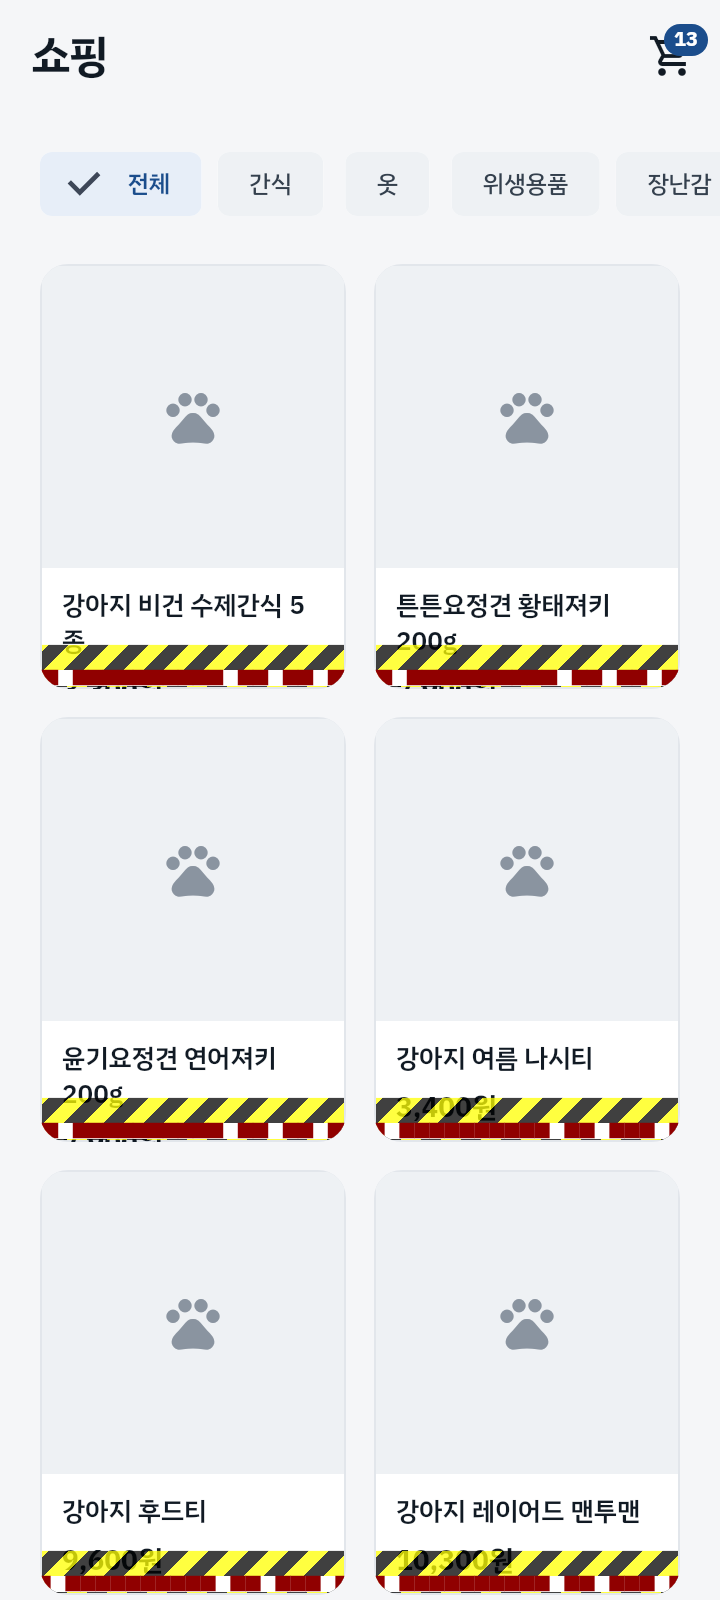
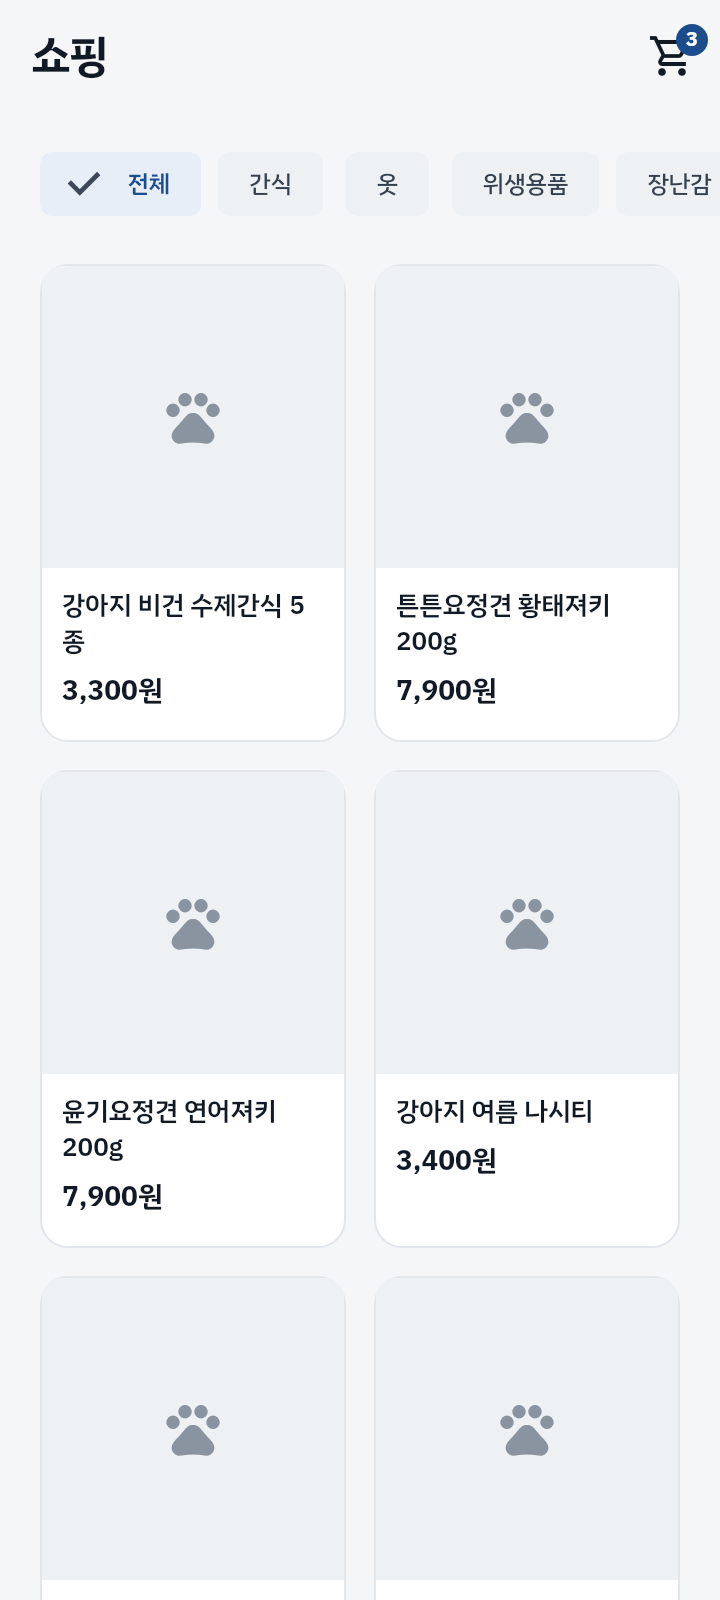
쇼핑 화면 보정: 카드 높이, 칩 글꼴, 장바구니 배지
- 스토어 홈 카드: childAspectRatio 대신 mainAxisExtent = 카드 폭(정사각
  이미지) + 글자 영역. 글자 영역은 상품명 2줄(maxLines 2·ellipsis) + 가격
  1줄(+ 할인 전 가격 줄이 있을 때만) + 여백을 실제 글꼴·글자 크기 설정으로
  TextPainter로 재서 정한다. "우리 아이에게 맞는" 가로 목록 높이도 같은 값.
  360·411·600 폭 넘침 없음 테스트(shop_home_layout_test) 추가.
- app_theme chipTheme.labelStyle/secondaryLabelStyle에 IBM Plex Sans KR 지정
  (기기에서 칩만 시스템 글꼴로 보이던 문제). 스크린샷 테스트의 칩 글꼴
  덧씌우기 코드 제거.
- 장바구니 배지: 수량 합계 → 장바구니 줄 수(상품·옵션 조합 수).
- 스크린샷 다시 찍음(01·02 홈 카드 넘침 사라짐, 배지 13 → 3).

Claude-Session: https://claude.ai/code/session_01FQNcVMWacnPUqqWDpuGHpn

diff --git a/lib/shop/screens/shop_home_screen.dart b/lib/shop/screens/shop_home_screen.dart
@@ -86,17 +86,29 @@ class ShopHomeScreen extends ConsumerWidget {
                         child: Text('아직 등록된 상품이 없어요', style: TextStyle(color: AppColors.textSecondary)),
                       ),
                     )
-                  : GridView.builder(
-                      shrinkWrap: true,
-                      physics: const NeverScrollableScrollPhysics(),
-                      itemCount: page.products.length,
-                      gridDelegate: const SliverGridDelegateWithFixedCrossAxisCount(
-                        crossAxisCount: 2,
-                        mainAxisSpacing: 14,
-                        crossAxisSpacing: 14,
-                        childAspectRatio: 0.72,
-                      ),
-                      itemBuilder: (context, index) => _ProductCard(product: page.products[index]),
+                  : LayoutBuilder(
+                      builder: (context, constraints) {
+                        // 카드 높이 = 카드 폭(정사각 이미지) + 글자 영역 — 비율로
+                        // 정하면 좁은 폭에서 글자 영역이 모자라 넘친다.
+                        const spacing = 14.0;
+                        final cardWidth = (constraints.maxWidth - spacing) / 2;
+                        return GridView.builder(
+                          shrinkWrap: true,
+                          physics: const NeverScrollableScrollPhysics(),
+                          itemCount: page.products.length,
+                          gridDelegate: SliverGridDelegateWithFixedCrossAxisCount(
+                            crossAxisCount: 2,
+                            mainAxisSpacing: spacing,
+                            crossAxisSpacing: spacing,
+                            mainAxisExtent: cardWidth +
+                                _ProductCard.textAreaHeight(
+                                  context,
+                                  withStrikePrice: page.products.any((p) => p.isOnSale),
+                                ),
+                          ),
+                          itemBuilder: (context, index) => _ProductCard(product: page.products[index]),
+                        );
+                      },
                     ),
             ),
           ),
@@ -153,7 +165,7 @@ class _RecommendedSection extends StatelessWidget {
           child: Text('우리 아이에게 맞는', style: TextStyle(fontSize: 15, fontWeight: FontWeight.w800)),
         ),
         SizedBox(
-          height: 210,
+          height: 150 + _ProductCard.textAreaHeight(context, withStrikePrice: products.any((p) => p.isOnSale)),
           child: ListView.separated(
             scrollDirection: Axis.horizontal,
             padding: const EdgeInsets.symmetric(horizontal: AppSpacing.page),
@@ -171,6 +183,41 @@ class _ProductCard extends StatelessWidget {
   final Product product;
 
   const _ProductCard({required this.product});
+
+  static const _textPadding = 10.0;
+  static const _nameGap = 6.0;
+  static const _strikeGap = 2.0;
+  static const _nameStyle = TextStyle(fontSize: 13, fontWeight: FontWeight.w600, color: AppColors.textPrimary);
+  static const _priceStyle = TextStyle(fontSize: 14, fontWeight: FontWeight.w800, color: AppColors.textPrimary);
+  static const _strikeStyle =
+      TextStyle(fontSize: 11.5, color: AppColors.textPlaceholder, decoration: TextDecoration.lineThrough);
+
+  /// 이미지 아래 글자 영역 높이 — 상품명 2줄 + 가격 1줄(+ 할인 전 가격 줄) +
+  /// 여백을 실제 글꼴·글자 크기 설정으로 재서 정한다(카드 높이를 이 값으로
+  /// 고정하므로 어떤 폭·글꼴에서도 넘치지 않는다).
+  static double textAreaHeight(BuildContext context, {bool withStrikePrice = false}) {
+    final base = DefaultTextStyle.of(context).style;
+    final scaler = MediaQuery.textScalerOf(context);
+    final direction = Directionality.of(context);
+    double lines(TextStyle style, int count) {
+      final painter = TextPainter(
+        text: TextSpan(text: List.filled(count, '가g').join('\n'), style: base.merge(style)),
+        textDirection: direction,
+        textScaler: scaler,
+      )..layout();
+      final height = painter.height;
+      painter.dispose();
+      return height;
+    }
+
+    return _textPadding * 2 +
+        lines(_nameStyle, 2) +
+        _nameGap +
+        (withStrikePrice ? lines(_strikeStyle, 1) + _strikeGap : 0) +
+        lines(_priceStyle, 1) +
+        // 테두리(위·아래 1px)와 반올림 여유.
+        4;
+  }
 
   @override
   Widget build(BuildContext context) {
@@ -210,7 +257,7 @@ class _ProductCard extends StatelessWidget {
               ),
             ),
             Padding(
-              padding: const EdgeInsets.all(10),
+              padding: const EdgeInsets.all(_textPadding),
               child: Column(
                 crossAxisAlignment: CrossAxisAlignment.start,
                 children: [
@@ -218,19 +265,19 @@ class _ProductCard extends StatelessWidget {
                     product.name,
                     maxLines: 2,
                     overflow: TextOverflow.ellipsis,
-                    style: const TextStyle(fontSize: 13, fontWeight: FontWeight.w600, color: AppColors.textPrimary),
+                    style: _nameStyle,
                   ),
-                  const SizedBox(height: 6),
+                  const SizedBox(height: _nameGap),
                   if (product.isOnSale) ...[
                     Text(
                       '${NumberFormat('#,###').format(product.price)}원',
-                      style: const TextStyle(fontSize: 11.5, color: AppColors.textPlaceholder, decoration: TextDecoration.lineThrough),
+                      style: _strikeStyle,
                     ),
-                    const SizedBox(height: 2),
+                    const SizedBox(height: _strikeGap),
                   ],
                   Text(
                     '${NumberFormat('#,###').format(product.displayPrice)}원',
-                    style: const TextStyle(fontSize: 14, fontWeight: FontWeight.w800, color: AppColors.textPrimary),
+                    style: _priceStyle,
                   ),
                 ],
               ),

diff --git a/test/shop/shop_home_layout_test.dart b/test/shop/shop_home_layout_test.dart
@@ -1,0 +1,122 @@
+import 'dart:io';
+
+import 'package:firebase_auth/firebase_auth.dart';
+import 'package:flutter/material.dart';
+import 'package:flutter/services.dart';
+import 'package:flutter_riverpod/flutter_riverpod.dart';
+import 'package:flutter_test/flutter_test.dart';
+
+import 'package:petcliniccheck/models/pet.dart';
+import 'package:petcliniccheck/providers/auth_provider.dart';
+import 'package:petcliniccheck/providers/effective_pets_provider.dart';
+import 'package:petcliniccheck/shop/data/shop_repository.dart';
+import 'package:petcliniccheck/shop/models/cart_item.dart';
+import 'package:petcliniccheck/shop/models/product.dart';
+import 'package:petcliniccheck/shop/models/seller.dart';
+import 'package:petcliniccheck/shop/providers/shop_providers.dart';
+import 'package:petcliniccheck/shop/screens/shop_home_screen.dart';
+import 'package:petcliniccheck/theme/app_theme.dart';
+
+class _FakeUser implements User {
+  @override
+  String get uid => 'u1';
+
+  @override
+  dynamic noSuchMethod(Invocation invocation) => super.noSuchMethod(invocation);
+}
+
+class _FakeShopRepository implements ShopRepository {
+  final List<Product> products;
+  final List<CartItem> cart;
+
+  _FakeShopRepository({required this.products, this.cart = const []});
+
+  @override
+  Future<ProductPage> fetchProducts({
+    ProductCategory? category,
+    PetTypeTag? petType,
+    LifeStageTag? lifeStage,
+    int limit = 20,
+    Object? cursor,
+  }) async =>
+      ProductPage(products: [for (final p in products) if (category == null || p.category == category) p]);
+
+  @override
+  Future<Seller?> fetchSeller(String sellerId) async => null;
+
+  @override
+  Stream<List<CartItem>> streamCart(String uid) => Stream.value(cart);
+
+  @override
+  dynamic noSuchMethod(Invocation invocation) => throw UnsupportedError('${invocation.memberName}');
+}
+
+Product _product(String id, String name, {int price = 10300}) => Product(
+      id: id,
+      sellerId: 'aggaeng',
+      name: name,
+      category: ProductCategory.apparel,
+      price: price,
+      status: ProductStatus.active,
+      createdAt: DateTime(2026, 11, 1),
+      updatedAt: DateTime(2026, 11, 1),
+    );
+
+/// 스토어 홈 카드 높이는 "카드 폭 + 실제 글꼴로 잰 글자 영역" — 폭이 바뀌어도
+/// 상품명 2줄 + 가격이 넘치지 않아야 한다. 앱과 같은 IBM Plex Sans KR로 잰다.
+void main() {
+  setUpAll(() async {
+    final plex = FontLoader('IBM Plex Sans KR');
+    for (final weight in ['Regular', 'Medium', 'SemiBold', 'Bold']) {
+      plex.addFont(Future.value(ByteData.sublistView(File('assets/fonts/IBMPlexSansKR-$weight.ttf').readAsBytesSync())));
+    }
+    await plex.load();
+    // AdMob 배너는 테스트에 플랫폼 구현이 없다 — 빈 응답(배너 미표시).
+    TestDefaultBinaryMessengerBinding.instance.defaultBinaryMessenger.setMockMessageHandler(
+      'plugins.flutter.io/google_mobile_ads',
+      (message) async => const StandardMethodCodec().encodeSuccessEnvelope(null),
+    );
+  });
+
+  final products = [
+    _product('a', '강아지 비건 수제간식 5종 아주 긴 이름이 두 줄을 넘어가는 경우까지'),
+    _product('b', '튼튼요정견 황태져키 200g'),
+    _product('c', '강아지 후드티'),
+    _product('d', '강아지 레이어드 맨투맨', price: 1234567),
+  ];
+
+  Future<void> pumpAt(WidgetTester tester, double width, {List<CartItem> cart = const []}) async {
+    tester.view.physicalSize = Size(width, 800);
+    tester.view.devicePixelRatio = 1;
+    addTearDown(tester.view.reset);
+    await tester.pumpWidget(ProviderScope(
+      overrides: [
+        shopRepositoryProvider.overrideWithValue(_FakeShopRepository(products: products, cart: cart)),
+        authStateProvider.overrideWith((ref) => Stream<User?>.value(_FakeUser())),
+        effectivePetsProvider.overrideWith((ref) async => const <Pet>[]),
+      ],
+      child: MaterialApp(theme: AppTheme.light(), home: const ShopHomeScreen()),
+    ));
+    await tester.pumpAndSettle();
+  }
+
+  for (final width in [360.0, 411.0, 600.0]) {
+    testWidgets('폭 $width에서 상품 카드가 넘치지 않는다(상품명 2줄 + 가격)', (tester) async {
+      await pumpAt(tester, width);
+      expect(tester.takeException(), isNull);
+      expect(find.text('강아지 레이어드 맨투맨'), findsOneWidget);
+      expect(find.text('1,234,567원'), findsOneWidget);
+    });
+  }
+
+  testWidgets('장바구니 배지는 수량 합계가 아니라 줄 수(상품·옵션 조합 수)', (tester) async {
+    final now = DateTime(2026, 11, 9);
+    await pumpAt(tester, 360, cart: [
+      CartItem(id: 'c1', productId: 'c', optionId: 'o3', quantity: 2, addedAt: now),
+      CartItem(id: 'c2', productId: 'kennel', optionId: 'o1', quantity: 1, addedAt: now),
+      CartItem(id: 'c3', productId: 'bags', quantity: 10, addedAt: now),
+    ]);
+    expect(find.text('3'), findsOneWidget);
+    expect(find.text('13'), findsNothing);
+  });
+}

diff --git a/test/shop/screenshots/shop_screenshots_test.dart b/test/shop/screenshots/shop_screenshots_test.dart
@@ -82,19 +82,6 @@ Future<void> _loadFonts() async {
   await icons.load();
 }
 
-/// 앱 테마 그대로 — 단, 칩 라벨(`chipTheme.labelStyle`)은 글꼴이 지정돼 있지
-/// 않아 기기에선 시스템 한글 글꼴로 대체돼 그려지는데, 테스트에는 대체 글꼴이
-/// 없어 네모가 된다. 스크린샷에서만 그 자리를 IBM Plex로 채운다(기기의 칩
-/// 글자 모양과는 조금 다를 수 있다). 앱 코드는 바꾸지 않는다.
-ThemeData _screenshotTheme() {
-  final theme = AppTheme.light();
-  return theme.copyWith(
-    chipTheme: theme.chipTheme.copyWith(
-      labelStyle: (theme.chipTheme.labelStyle ?? const TextStyle()).copyWith(fontFamily: 'IBM Plex Sans KR'),
-    ),
-  );
-}
-
 void main() {
   late FakeFirebaseFirestore firestore;
   late Map<String, Product> products;
@@ -168,7 +155,7 @@ void main() {
     addTearDown(tester.view.reset);
     await tester.pumpWidget(ProviderScope(
       overrides: overrides(),
-      child: MaterialApp(debugShowCheckedModeBanner: false, theme: _screenshotTheme(), home: home),
+      child: MaterialApp(debugShowCheckedModeBanner: false, theme: AppTheme.light(), home: home),
     ));
     await tester.pumpAndSettle();
   }

diff --git a/lib/theme/app_theme.dart b/lib/theme/app_theme.dart
@@ -125,8 +125,15 @@ class AppTheme {
         side: BorderSide.none,
         backgroundColor: AppColors.closedBg,
         selectedColor: AppColors.primarySoft,
-        labelStyle: const TextStyle(fontSize: 12, fontWeight: FontWeight.w500, color: AppColors.textLabel),
+        // 칩 라벨도 앱 기본 글꼴로(지정하지 않으면 기기 시스템 글꼴로 대체된다).
+        labelStyle: const TextStyle(
+          fontFamily: 'IBM Plex Sans KR',
+          fontSize: 12,
+          fontWeight: FontWeight.w500,
+          color: AppColors.textLabel,
+        ),
         secondaryLabelStyle: const TextStyle(
+          fontFamily: 'IBM Plex Sans KR',
           fontSize: 12,
           fontWeight: FontWeight.w600,
           color: AppColors.primaryTextTone,

diff --git a/lib/shop/providers/shop_providers.dart b/lib/shop/providers/shop_providers.dart
@@ -81,7 +81,9 @@ final cartProvider = StreamProvider.autoDispose<List<CartItem>>((ref) {
 
 final cartItemCountProvider = Provider.autoDispose<int>((ref) {
   final items = ref.watch(cartProvider).value ?? const [];
-  return items.fold<int>(0, (total, item) => total + item.quantity);
+  // 수량 합계가 아니라 장바구니 줄 수(상품·옵션 조합 수) — 배변봉투 10개가
+  // 배지를 10으로 부풀리지 않게.
+  return items.length;
 });
 
 /// "우리 아이에게 맞는" 추천 — 로그인 + 반려동물이 있을 때만. 종·체중·
